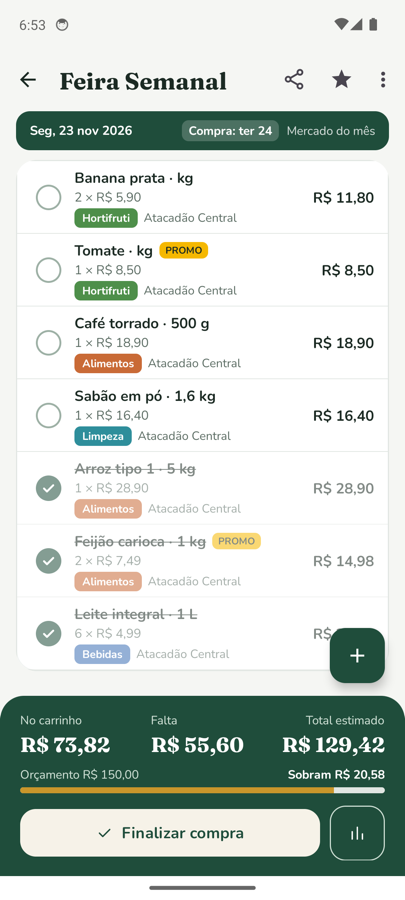
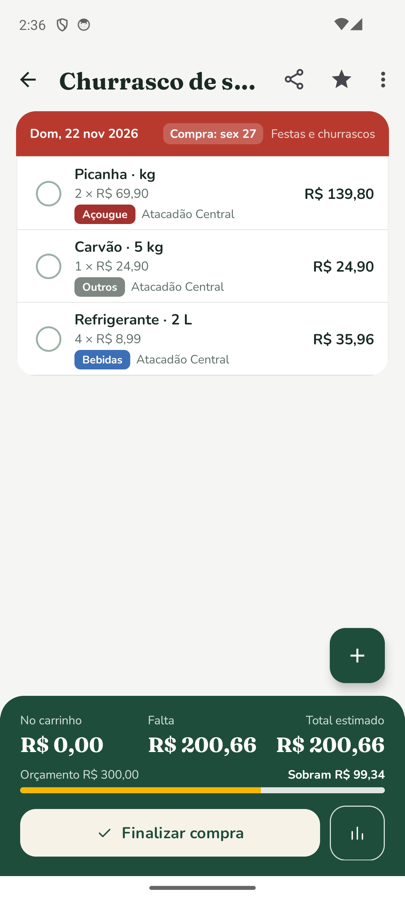
Novo mercado direto no item, cartões da pasta só com título e resumo, faixa colorida colada na lista

diff --git a/app/src/main/java/com/example/spesa/ui/ItemFormActivity.kt b/app/src/main/java/com/example/spesa/ui/ItemFormActivity.kt
@@ -20,6 +20,7 @@ import com.example.spesa.util.visivel
 
 /** Formulário para adicionar ou editar um item de uma lista. */
 class ItemFormActivity : AppCompatActivity() {
+    private val NOVO_MERCADO = "+ Novo mercado"
 
     companion object {
         const val EXTRA_LISTA_ID = "lista_id"
@@ -91,20 +92,7 @@ class ItemFormActivity : AppCompatActivity() {
             categoriaEscolhida = Categoria.entries[posicao]
         }
 
-        // Mercado: "Nenhum" + os cadastrados
-        val nomesMercados = listOf(getString(R.string.nenhum_mercado)) + Repositorio.mercados.map { it.nome }
-        b.campoMercado.setAdapter(ArrayAdapter(this, android.R.layout.simple_list_item_1, nomesMercados))
-        b.campoMercado.setText(nomesMercados[0], false)
-        b.campoMercado.setOnItemClickListener { _, _, posicao, _ ->
-            mercadoEscolhido = if (posicao == 0) null else Repositorio.mercados[posicao - 1]
-            // Se já sabemos o preço deste produto nesse mercado, preenche
-            val produto = Repositorio.produtoPorNome(b.campoNome.text.toString())
-            val conhecido = mercadoEscolhido?.let { produto?.precoEm(it.id) }
-            if (conhecido != null) {
-                b.campoPreco.setText(Formato.numero(conhecido.preco))
-                b.trocaPromocao.isChecked = conhecido.promocao
-            }
-        }
+        montarMercados()
 
         // Quantidade
         b.botaoMenos.setOnClickListener { mudarQuantidade(-1) }
@@ -162,6 +150,46 @@ class ItemFormActivity : AppCompatActivity() {
             startActivity(android.content.Intent(this, ComparativoActivity::class.java)
                 .putExtra(ComparativoActivity.EXTRA_PRODUTO, produto!!.id))
         }
+    }
+
+    /** Mercado: "Nenhum" + os cadastrados + "+ Novo mercado" no fim */
+    private fun montarMercados() {
+        val nomes = listOf(getString(R.string.nenhum_mercado)) + Repositorio.mercados.map { it.nome } + NOVO_MERCADO
+        b.campoMercado.setAdapter(ArrayAdapter(this, android.R.layout.simple_list_item_1, nomes))
+        b.campoMercado.setText(mercadoEscolhido?.nome ?: nomes[0], false)
+        b.campoMercado.setOnItemClickListener { _, _, posicao, _ ->
+            if (nomes[posicao] == NOVO_MERCADO) { novoMercado(); return@setOnItemClickListener }
+            mercadoEscolhido = if (posicao == 0) null else Repositorio.mercados[posicao - 1]
+            // Se já sabemos o preço deste produto nesse mercado, preenche
+            val produto = Repositorio.produtoPorNome(b.campoNome.text.toString())
+            val conhecido = mercadoEscolhido?.let { produto?.precoEm(it.id) }
+            if (conhecido != null) {
+                b.campoPreco.setText(Formato.numero(conhecido.preco))
+                b.trocaPromocao.isChecked = conhecido.promocao
+            }
+        }
+    }
+
+    /** janelinha para cadastrar um mercado sem sair do item */
+    private fun novoMercado() {
+        val campo = android.widget.EditText(this).apply { hint = "Nome do mercado" }
+        val caixa = android.widget.FrameLayout(this).apply {
+            val p = (20 * resources.displayMetrics.density).toInt()
+            setPadding(p, p / 2, p, 0); addView(campo)
+        }
+        com.google.android.material.dialog.MaterialAlertDialogBuilder(this)
+            .setTitle("Novo mercado")
+            .setView(caixa)
+            .setNegativeButton(R.string.cancelar) { _, _ -> montarMercados() }
+            .setPositiveButton("Criar") { _, _ ->
+                val nome = campo.text.toString().trim()
+                if (nome.isNotEmpty()) {
+                    val mercado = Mercado().apply { this.nome = nome }
+                    Repositorio.salvarMercado(mercado)
+                    mercadoEscolhido = mercado
+                }
+                montarMercados()
+            }.show()
     }
 
     private fun salvar() {

diff --git a/app/src/main/java/com/example/spesa/ui/PastaActivity.kt b/app/src/main/java/com/example/spesa/ui/PastaActivity.kt
@@ -58,7 +58,7 @@ class PastaActivity : AppCompatActivity() {
         b.vazio.visivel(listas.isEmpty())
     }
 
-    /** cartão da lista: barra com datas na cor da pasta e os 4 primeiros itens (dá pra marcar aqui mesmo) */
+    /** cartão da lista: barra com datas na cor da pasta, o título e o resumo (sem os itens) */
     private fun cartao(lista: ListaDeCompras) {
         val c = ItemCartaoListaBinding.inflate(layoutInflater, b.listas, true)
         c.barra.backgroundTintList = ColorStateList.valueOf(Telas.cor(this, pasta.cor.corRes))
@@ -71,30 +71,11 @@ class PastaActivity : AppCompatActivity() {
         compra?.let { c.dataCompra.text = "Compra: ${Datas.diaSemanaCurtoDia(it)}" }
         c.titulo.text = lista.titulo
 
-        // itens que faltam primeiro, os do carrinho depois
-        val ordenados = lista.itens.sortedBy { it.noCarrinho }
-        ordenados.take(4).forEach { item ->
-            val l = ItemItemListaBinding.inflate(layoutInflater, c.itens, true)
-            l.nome.text = item.nome
-            l.detalhe.text = "${item.quantidade} × ${Formato.reais(item.precoUnitario)}"
-            l.total.text = Formato.reais(item.total())
-            l.tagPromo.visivel(item.promocao)
-            l.tagCategoria.visivel(false)
-            l.marcado.isChecked = item.noCarrinho
-            if (item.noCarrinho) {
-                l.nome.paintFlags = l.nome.paintFlags or Paint.STRIKE_THRU_TEXT_FLAG
-                l.root.alpha = 0.55f
-            }
-            l.marcado.setOnClickListener {
-                item.noCarrinho = l.marcado.isChecked
-                Repositorio.salvar()
-                atualizar()
-            }
-            l.root.setOnClickListener { Telas.abrirLista(this, lista.id) }
-        }
-        val resto = lista.itens.size - 4
-        c.mais.visivel(resto > 0 || lista.itens.isEmpty())
-        c.mais.text = if (lista.itens.isEmpty()) "lista vazia: toque para adicionar itens" else "+ $resto ${if (resto == 1) "item" else "itens"}"
+        // só o resumo: quantos itens e quantos já estão no carrinho (os itens aparecem ao abrir a lista)
+        val n = lista.itens.size
+        c.mais.visivel(true)
+        c.mais.text = if (n == 0) "lista vazia: toque para adicionar itens"
+            else "$n ${if (n == 1) "item" else "itens"} · ${lista.quantosNoCarrinho()} no carrinho"
 
         c.carrinho.text = Html.fromHtml("No carrinho <b>${Formato.reais(lista.totalNoCarrinho())}</b>", 0)
         c.total.text = Html.fromHtml("Total <b>${Formato.reais(lista.totalEstimado())}</b>", 0)
